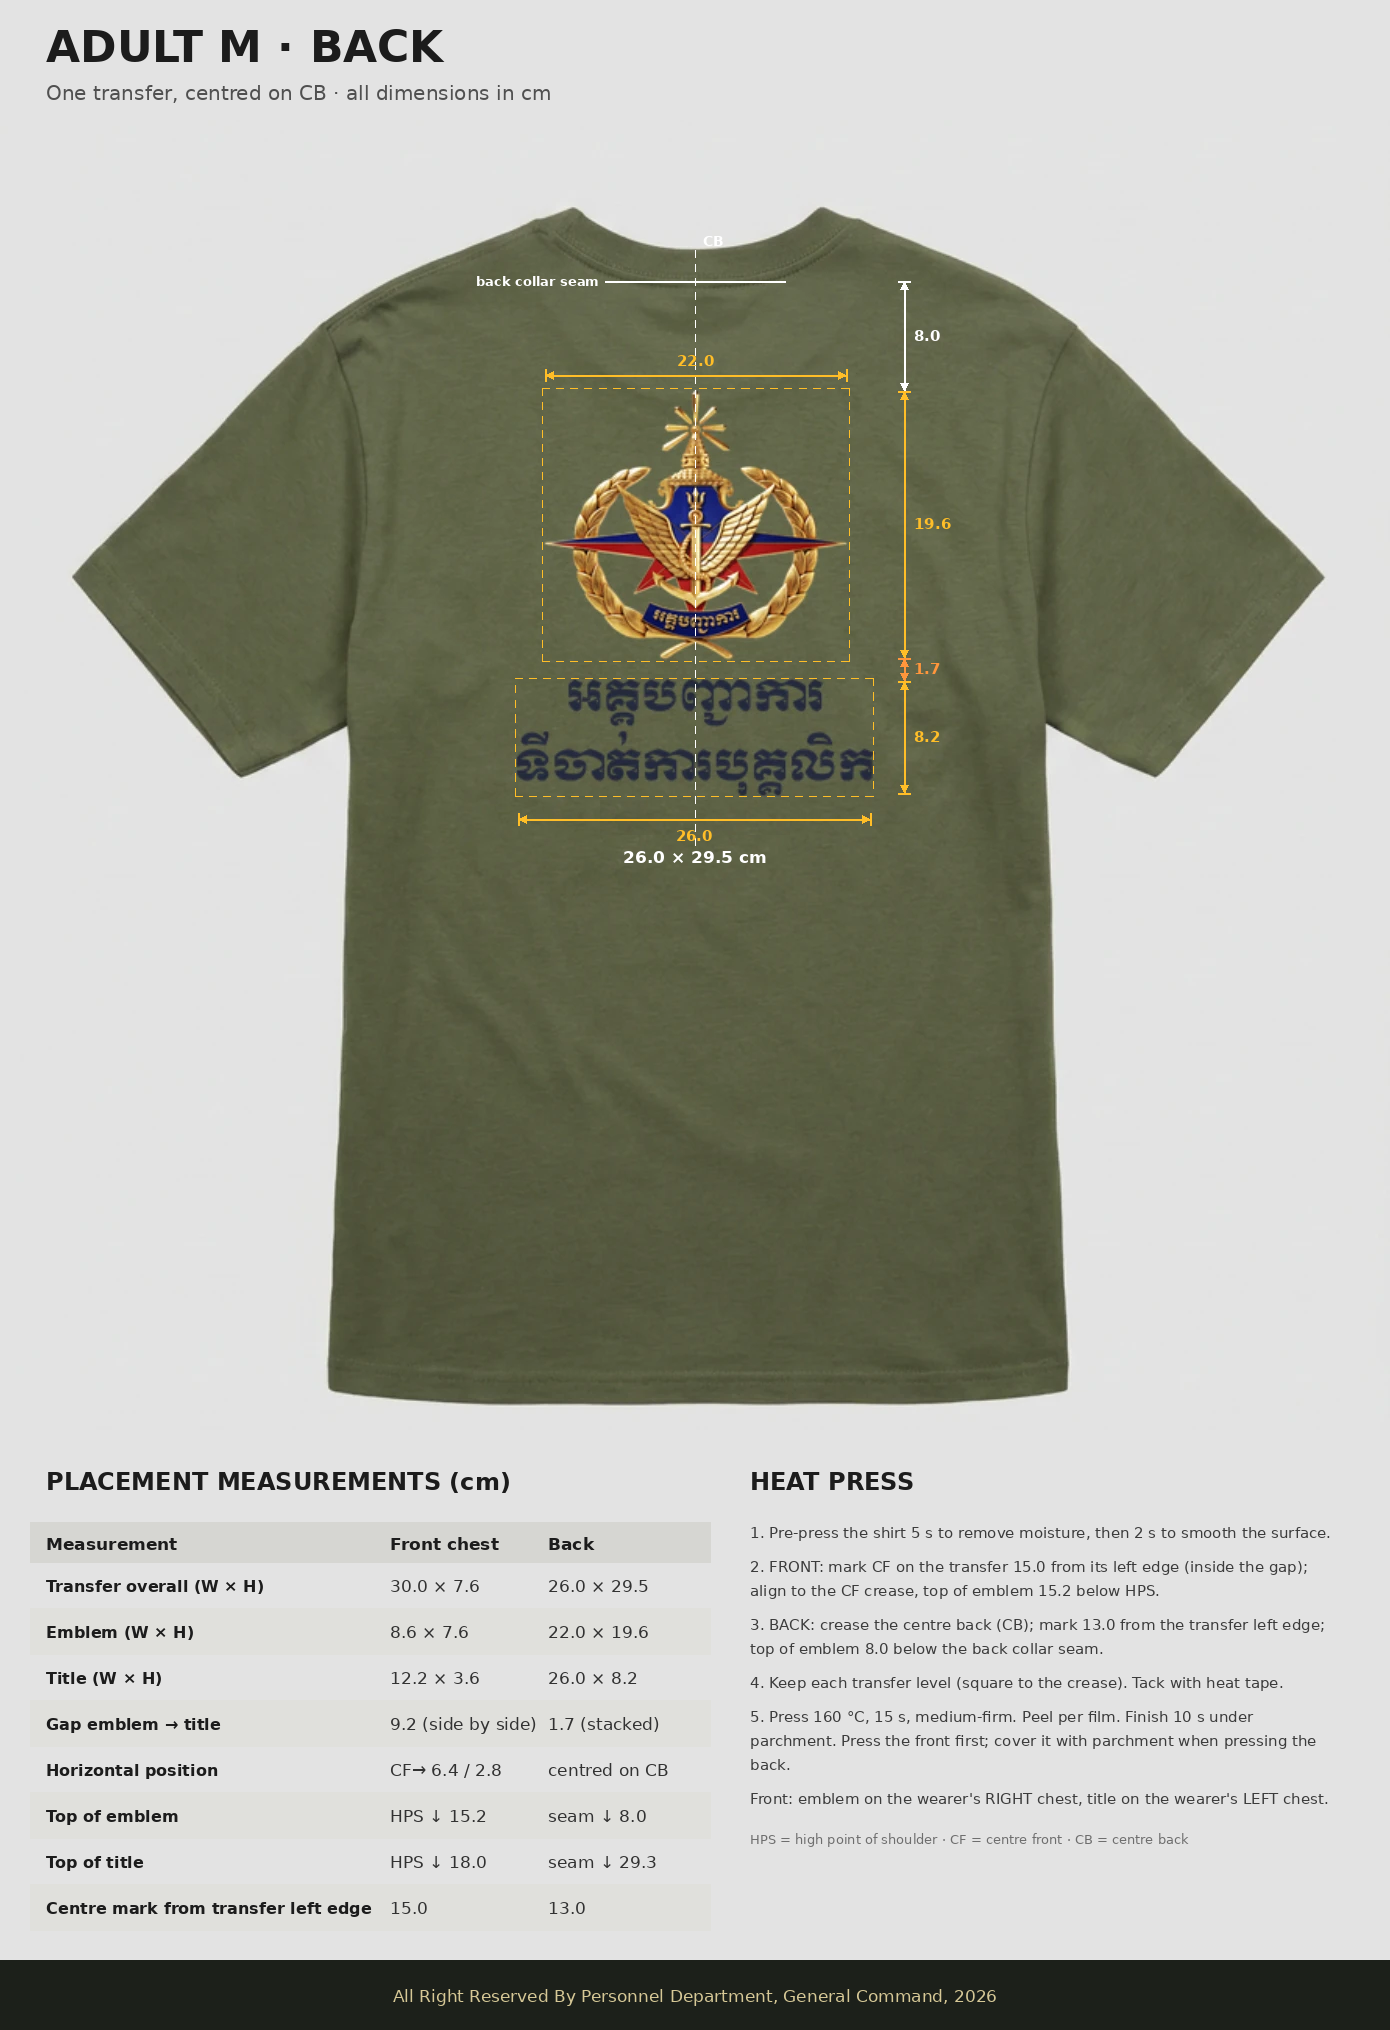
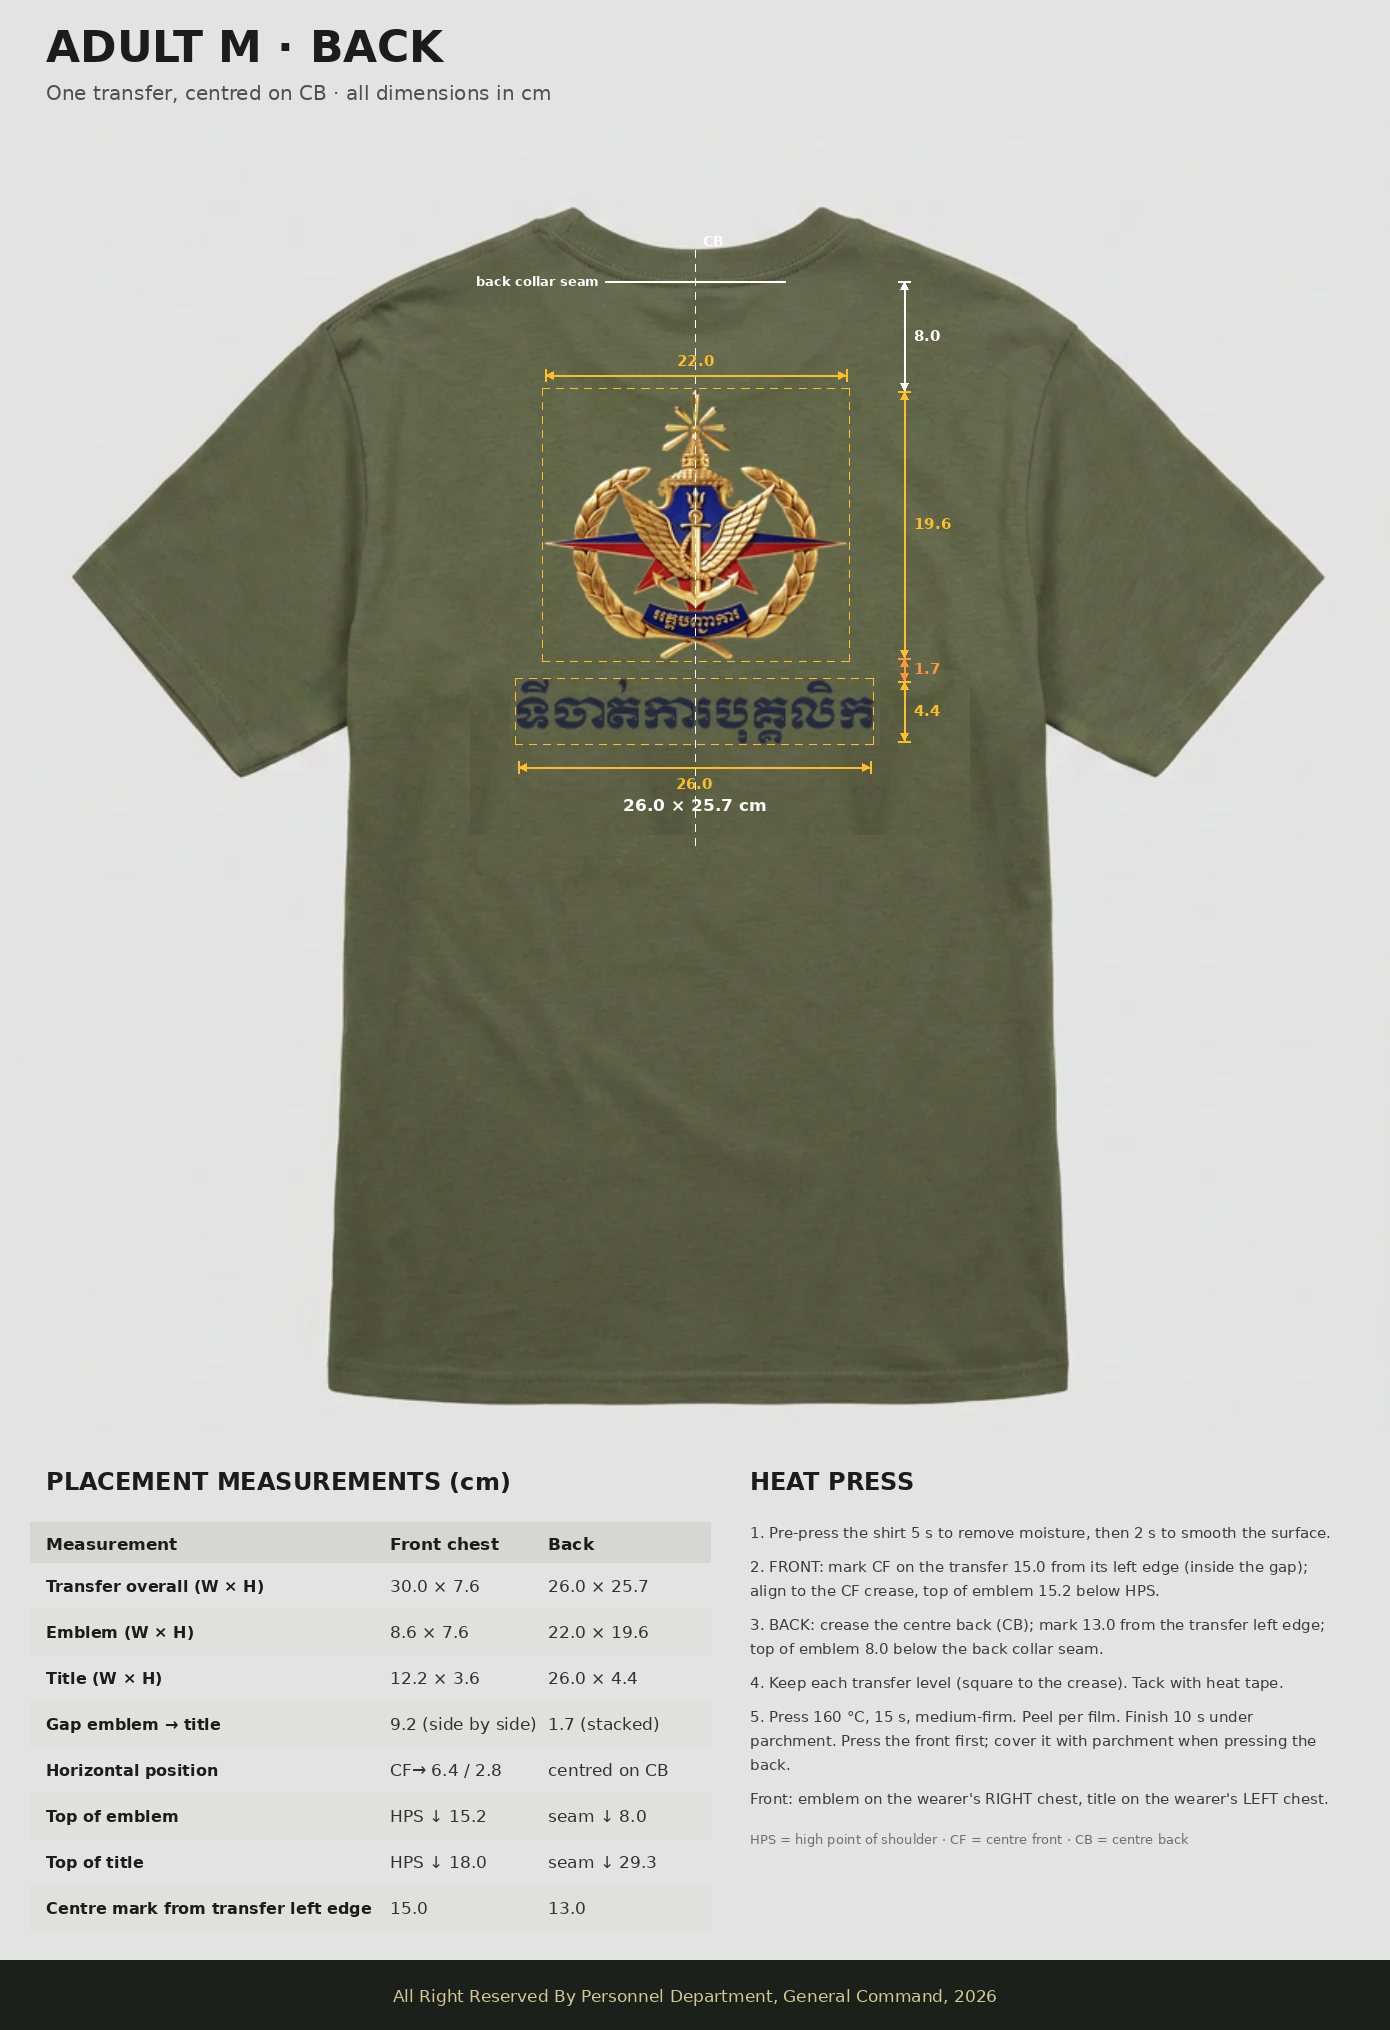
Remove first title line from back print; update measurements
Title is now one line (26.0 x 4.4); overall transfer 26.0 x 25.7 cm.
Gap to emblem unchanged at 1.7 cm.

Claude-Session: https://claude.ai/code/session_01Gk7DJcecaaZXyess623kas

Changed region(s): [[0.3712, 0.3103, 0.6806, 0.4345]]

diff --git a/tshirt-placement/make_sheet.py b/tshirt-placement/make_sheet.py
@@ -4,8 +4,8 @@ Inputs : back_mockup.webp  (tee photo with the lockup already printed on it)
 Fonts  : fonts/NSK-400.ttf, NSK-700.ttf (Noto Sans Khmer), DejaVu Sans for Latin
 Output : placement_back_<lang>.png
 Measured from the mockup (13.7 px/cm): emblem 22.0 wide, title ~26.0 wide,
-overall 26 x 29.5, top of emblem 8.0 below the back collar seam.
-Emblem height / gap / title height are read off the pixels and sum to 29.5.
+overall 26 x 25.7 (one-line title), top of emblem 8.0 below the back collar seam.
+Emblem height / gap / title height are read off the pixels and sum to 25.7 once title line 1 is removed.
 """
 import os, re, sys
 from PIL import Image, ImageDraw, ImageFont
@@ -18,9 +18,9 @@ DJV = '/usr/share/fonts/truetype/dejavu/DejaVuSans%s.ttf'
 PXCM = 13.7
 CB_X, SEAM_Y = 695, 411
 EMB = dict(x0=545, x1=846, y0=521, y1=788)           # px in the mockup
-TIT = dict(x0=518, x1=870, y0=811, y1=923)
-TOP_CM, EMB_W, TIT_W, TOT_W, TOT_H = 8.0, 22.0, 26.0, 26.0, 29.5
-EMB_H, GAP, TIT_H = 19.6, 1.7, 8.2
+TIT = dict(x0=518, x1=870, y0=811, y1=871)          # one-line title (after removing line 1)
+TOP_CM, EMB_W, TIT_W, TOT_W, TOT_H = 8.0, 22.0, 26.0, 26.0, 25.7
+EMB_H, GAP, TIT_H = 19.6, 1.7, 4.4
 
 TXT = dict(
     en=dict(title='ADULT M · BACK', sub='One transfer, centred on CB · all dimensions in cm',
@@ -122,7 +122,12 @@ WHITE, YEL, INK, ACC = (255, 255, 255), (255, 190, 40), (28, 28, 28), (255, 150,
 
 # ---------- back panel ----------
 img = Image.open(os.path.join(HERE, 'back_mockup.webp')).convert('RGB')
-img.paste(img.crop((600, 985, 790, 1020)), (600, 930))          # remove the baked-in size label
+line2 = img.crop((510, 858, 880, 928))                           # keep title line 2 (ទីចាត់ការបុគ្គលិក)
+strip = img.crop((405, 800, 505, 965))                           # plain fabric at the same height (matches the lighting gradient)
+flip = strip.transpose(Image.FLIP_LEFT_RIGHT)
+for i, x in enumerate(range(470, 920, 100)):                     # erase old title block + baked-in size label
+    img.paste(strip if i % 2 == 0 else flip, (x, 800))
+img.paste(line2, (510, 806))                                     # line 2 moves up; gap to emblem stays 1.7
 d = ImageDraw.Draw(img)
 dashed(d, (CB_X, 380), (CB_X, 975), WHITE)
 text(d, (CB_X + 8, 376), T['cb'], 'Bold', 14, WHITE)
